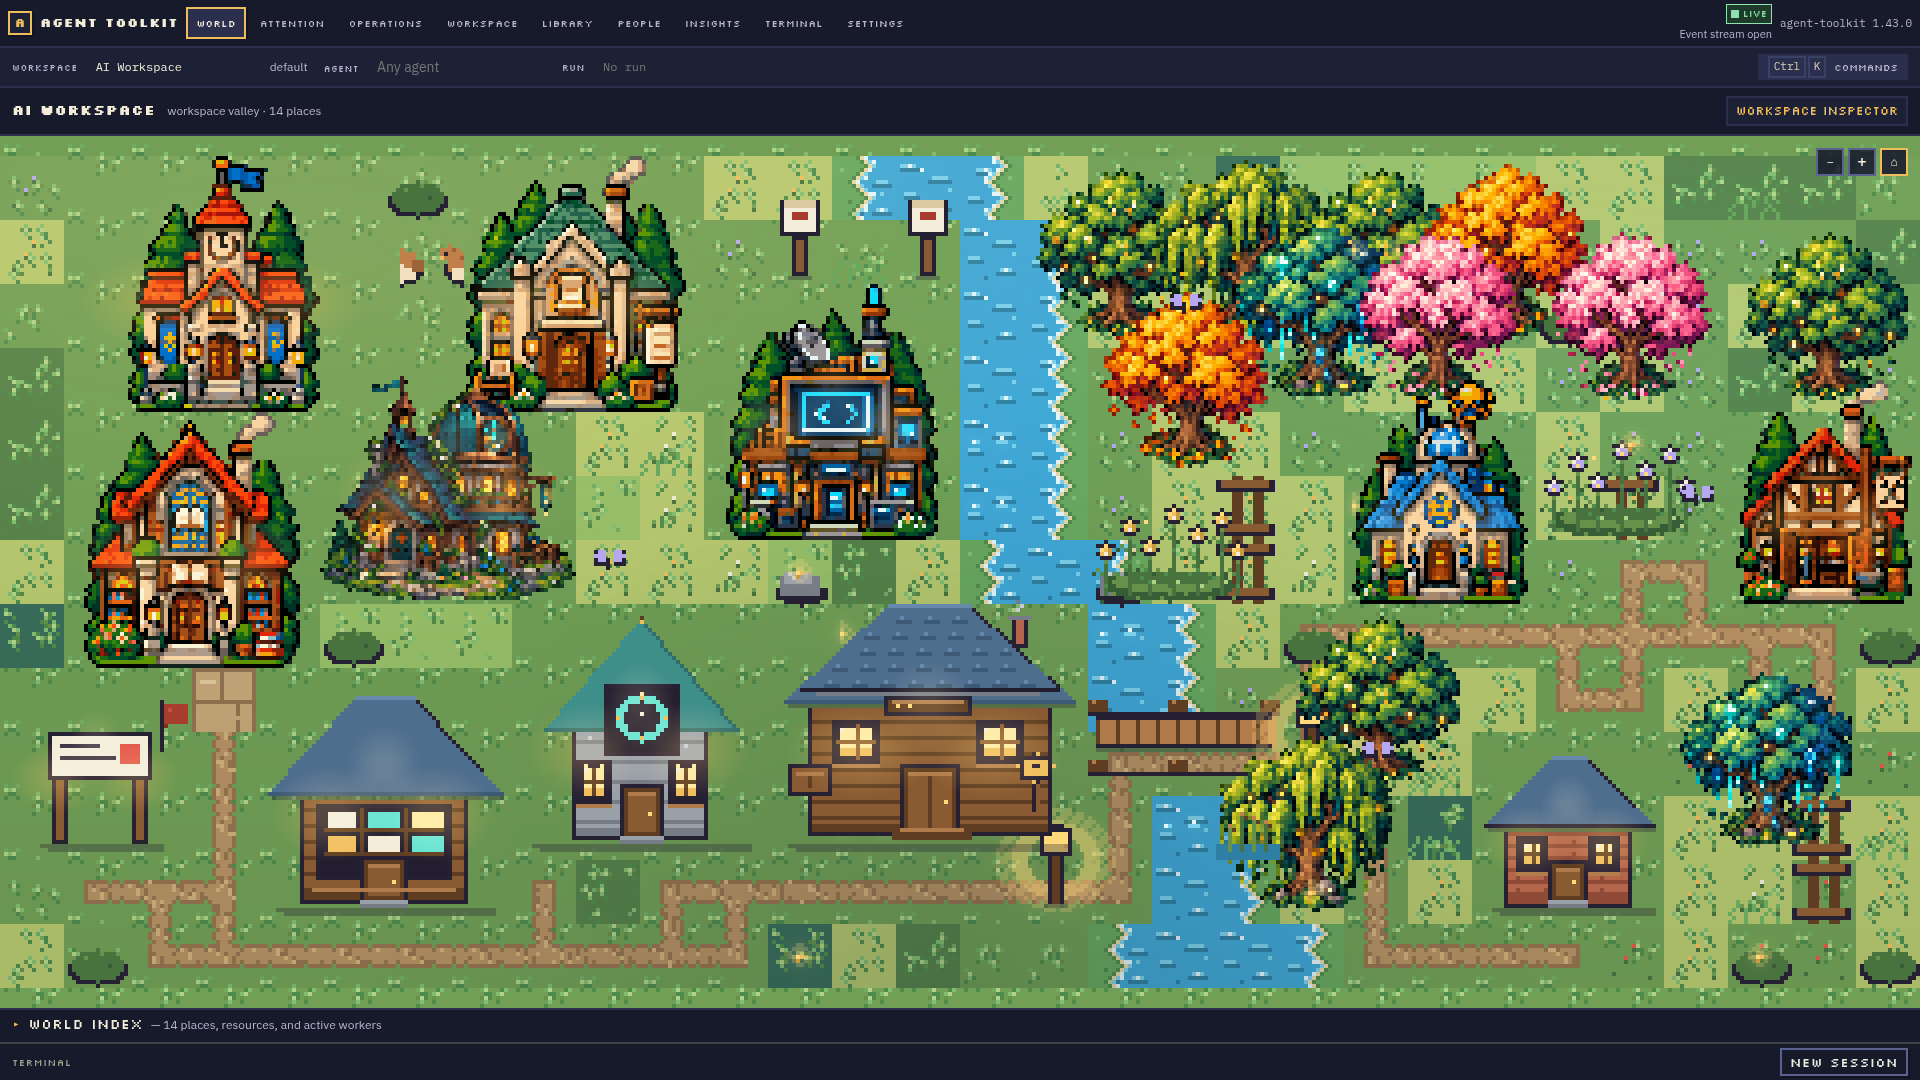
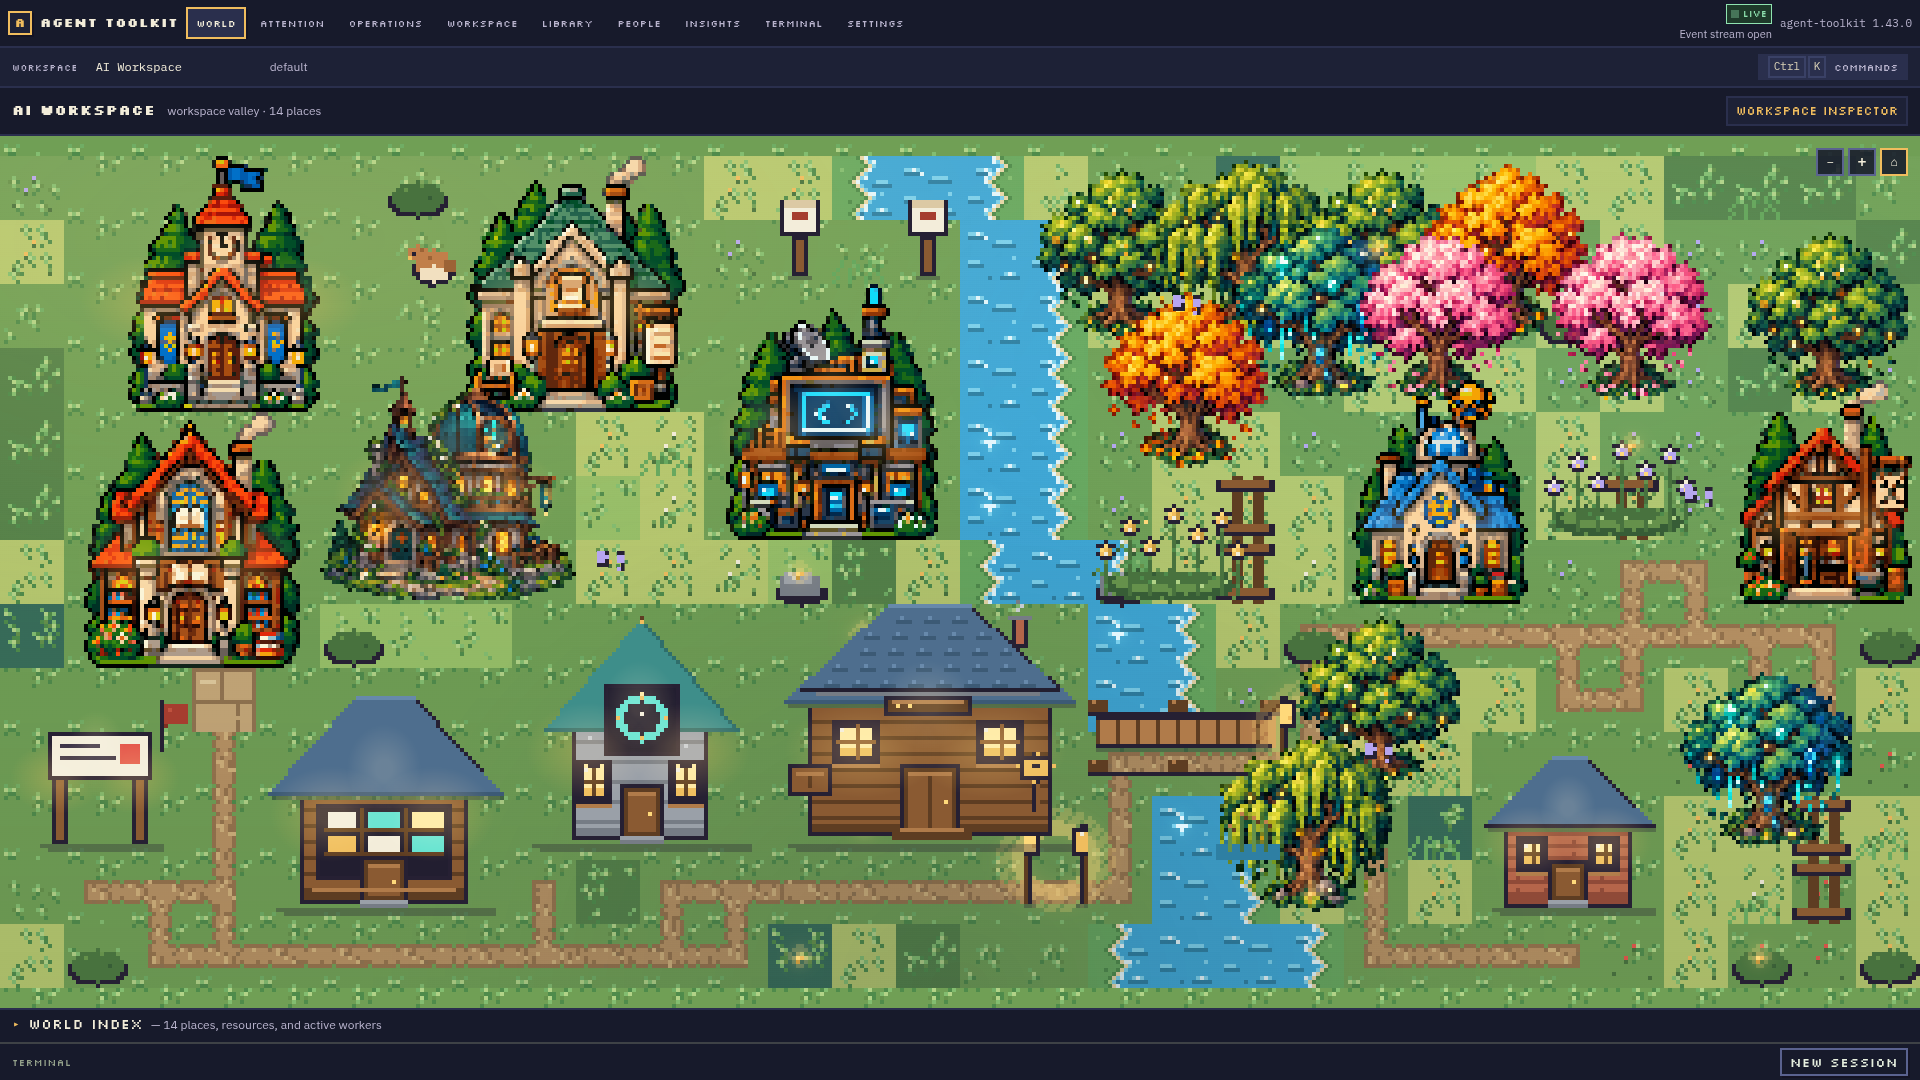
feat(desktop): focus world context strip (#1504)

diff --git a/apps/desktop/src/shell/ContextBar.tsx b/apps/desktop/src/shell/ContextBar.tsx
@@ -1,5 +1,5 @@
 import { useState, type FormEvent, type KeyboardEvent } from 'react';
-import { Link } from 'react-router';
+import { Link, useLocation } from 'react-router';
 import { useBackend } from '../data/backend';
 import { Kbd } from '../ui';
 import { openCommandPalette } from './CommandPalette';
@@ -59,8 +59,10 @@ function Field({
   );
 }
 
-/** Persistent workspace / agent / run bar. Values are URL search params. */
+/** Persistent context strip; World keeps workspace and commands, values stay in the URL. */
 export function ContextBar() {
+  const { pathname } = useLocation();
+  const isWorld = pathname === '/world';
   const { backend } = useBackend();
   const { context, setContext, href } = useSessionContext();
   const harness = backend?.harness ?? null;
@@ -94,8 +96,17 @@ export function ContextBar() {
           ) : null}
         </span>
       ) : null}
-      <Field label="Agent" value={context.agent} placeholder="Any agent" onCommit={(agent) => setContext({ agent })} />
-      <Field label="Run" value={context.run} placeholder="No run" mono onCommit={(run) => setContext({ run })} />
+      {!isWorld ? (
+        <Field
+          label="Agent"
+          value={context.agent}
+          placeholder="Any agent"
+          onCommit={(agent) => setContext({ agent })}
+        />
+      ) : null}
+      {!isWorld ? (
+        <Field label="Run" value={context.run} placeholder="No run" mono onCommit={(run) => setContext({ run })} />
+      ) : null}
       <button type="button" className={styles.contextHint} onClick={openCommandPalette} aria-haspopup="dialog">
         <Kbd keys={['Ctrl', 'K']} />
         <span>Commands</span>

diff --git a/apps/desktop/e2e/electron/desktop.spec.ts b/apps/desktop/e2e/electron/desktop.spec.ts
@@ -135,6 +135,9 @@ test('the context bar shows the default ~/.ai-workspace harness', async () => {
   const { page, workspace } = desktop;
   const bar = page.getByRole('form', { name: 'Session context' });
   const workspaceField = bar.getByLabel('Workspace');
+  await expect(bar.getByRole('textbox', { name: 'Agent' })).toHaveCount(0);
+  await expect(bar.getByRole('textbox', { name: 'Run' })).toHaveCount(0);
+  await expect(bar.getByRole('button', { name: /Commands/ })).toBeVisible();
   await expect(workspaceField).toHaveValue('AI Workspace');
   await workspaceField.focus();
   await expect(workspaceField).toHaveValue(workspace);
@@ -1147,11 +1150,11 @@ test('the world focuses a real PTY and does not invent one', async () => {
 test('an exited session keeps its output and can restart', async () => {
   const { page } = desktop;
   // Bind a real run identity so the dock tab (and restart) carry it — do not invent labels in asserts.
+  await page.getByRole('navigation', { name: 'Destinations' }).getByRole('link', { name: 'Terminal' }).click();
   const runField = page.getByRole('form', { name: 'Session context' }).getByRole('textbox', { name: 'Run' });
   await runField.fill('e2e-run');
   await runField.press('Enter');
   await expect(page).toHaveURL(/run=e2e-run/);
-  await page.getByRole('navigation', { name: 'Destinations' }).getByRole('link', { name: 'Terminal' }).click();
   await page.getByRole('main').getByRole('button', { name: 'New session' }).click();
   const dialog = page.getByRole('dialog', { name: 'New terminal session' });
   await dialog.getByRole('textbox', { name: 'Command', exact: true }).fill('/bin/sh');

diff --git a/docs/desktop/VISUAL_QA.md b/docs/desktop/VISUAL_QA.md
@@ -143,6 +143,30 @@ in grid-like junctions, and large grass clearings remain. Dusk lighting and
 the top navigation also still need a stronger world-first treatment. Keep
 those findings open; do not describe this pass as a complete world redesign.
 
+## World context focus — 2026-10-09
+
+On `/world`, the persistent context strip now keeps the active workspace and
+the command-palette shortcut, while hiding the manual Agent and Run filters.
+The map already derives active characters and work from backend evidence, so
+those filters were visually noisy and did not control the world. The full
+context remains on other destinations, and the workspace field remains
+editable on the World route. A focused Electron E2E checks both the reduced
+World strip and continued workspace visibility; typecheck, lint, production
+build, and the real project-link Electron journey passed.
+
+I opened the current Electron captures at compact and large sizes:
+[Meadow compact](assets/electron/world-review-2026-10-09/world-several-projects-meadow-compact.png),
+[Meadow large](../../static/screenshots/world.png),
+[Dusk compact](assets/electron/world-review-2026-10-09/world-several-projects-dusk-compact.png),
+[Dusk large](assets/electron/world-review-2026-10-09/world-several-projects-dusk-large.png),
+an empty compact workspace, and a selected project. The smaller context strip
+gives the map slightly more vertical space and reduces dashboard-like filter
+chrome. The selected-project plaque and world index remain visible. This is a
+small hierarchy improvement; the broad grass clearings, geometric path
+junctions, conventional top navigation, and underdeveloped enchanted lighting
+remain visible and are not signed off. The README world and Dusk images now
+use these exact real Electron captures from the installed 1.43.0 backend.
+
 ## Creek, landmark and room review — 2026-10-07
 
 The Electron capture workflow ran against the real 1.42.0 backend and a

diff --git a/docs/desktop/DESIGN.md b/docs/desktop/DESIGN.md
@@ -261,8 +261,10 @@ The shell is a minimal game HUD, not a dashboard frame:
 - **Top HUD bar** (single slim row): hornero mark + product name; chunky
   destination buttons (World first); live connection lamp; workspace chip;
   command-palette affordance (Ctrl/Cmd+K).
-- **Context strip**: session context (workspace / agent / run) as compact
-  fields — a real productivity rail, kept slim.
+- **Context strip**: workspace remains visible and switchable on every route.
+  The World hides agent/run filters because its characters and activity come
+  from live backend evidence, not those manual filters; other destinations
+  keep the full workspace / agent / run context.
 - **Terminal dock**: persistent xterm host below content; dark, crisp,
   pixel-framed tabs; unchanged real PTY behavior.
 - **Content surface**: `/world` fills it edge-to-edge (world is the screen);
